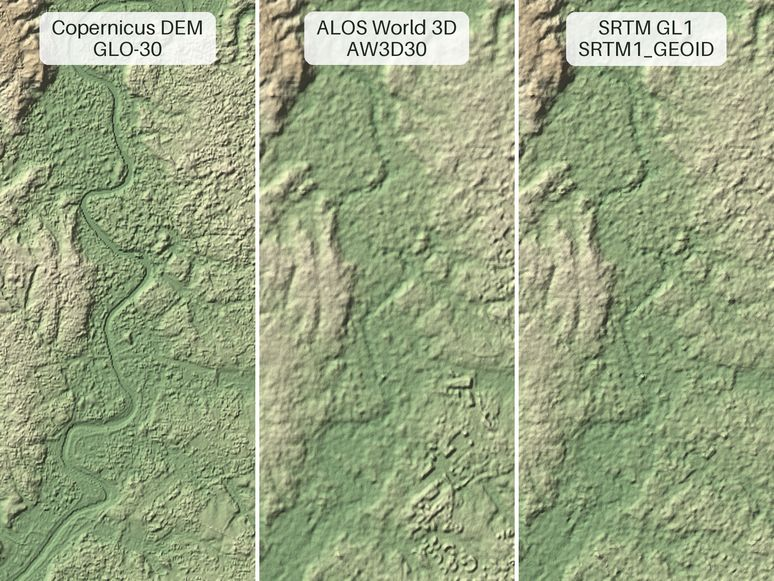
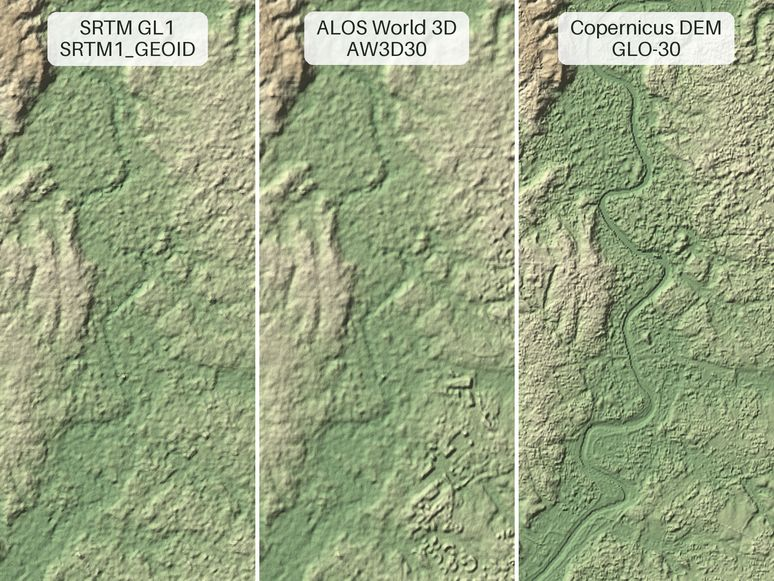
Reverse the order of the DEM to have improvement left to right

Changed region(s): [[0.6512, 0.0, 1.0, 1.0], [0.0, 0.0, 0.3411, 1.0]]

diff --git a/scripts/rome_compare_dems.py b/scripts/rome_compare_dems.py
@@ -19,9 +19,9 @@ from PIL import Image, ImageDraw, ImageFont
 import elevation
 
 PRODUCTS = [
-    ("GLO-30", "Copernicus DEM"),
-    ("AW3D30", "ALOS World 3D"),
     ("SRTM1_GEOID", "SRTM GL1"),
+    ("AW3D30", "ALOS World 3D"),
+    ("GLO-30", "Copernicus DEM"),
 ]
 # the README example
 CLIP_BOUNDS = (12.35, 41.8, 12.65, 42.0)

diff --git a/README.md b/README.md
@@ -26,10 +26,10 @@ Elevation provides easy download, cache and access of the global datasets:
 - `SRTM3`: [SRTM global 90m v4.1](https://bigdata.cgiar.org/srtm-90m-digital-elevation-database/)
   produced and hosted by CGIAR-CSI, with 90m heights on the EGM96 geoid.
 
-<img src="https://raw.githubusercontent.com/bopen/elevation/main/rome-compare-dems.jpg" alt="Hillshades of the Tiber valley in Rome from the GLO-30, AW3D30 and SRTM1_GEOID products" width="500">
+<img src="https://raw.githubusercontent.com/bopen/elevation/main/rome-compare-dems.jpg" alt="Hillshades of the Tiber valley in Rome from the SRTM1_GEOID, AW3D30 and GLO-30 products" width="500">
 
-The Tiber in Rome: Copernicus DEM draws the river, ALOS World 3D picks out the buildings
-of EUR, SRTM sets the baseline.
+The Tiber in Rome: SRTM sets the baseline, ALOS World 3D picks out the buildings of EUR,
+Copernicus DEM draws the river.
 
 Note that any download policies and attribution requirements of the respective providers apply.
 
